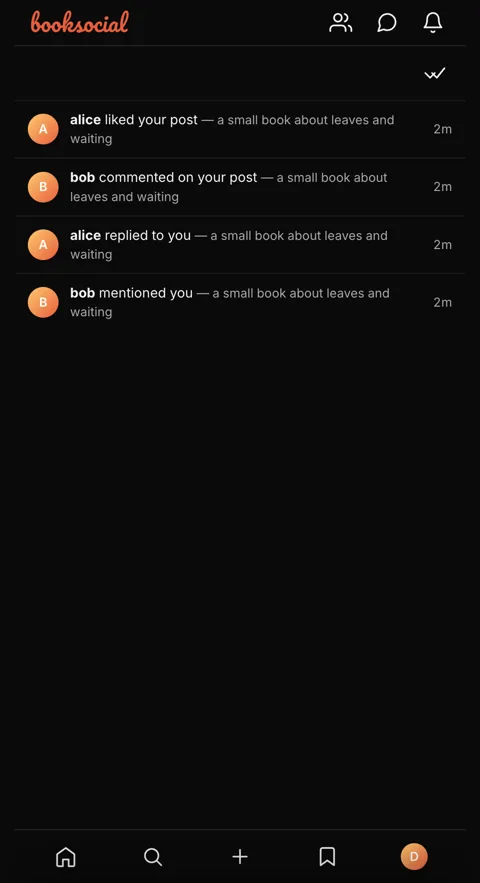
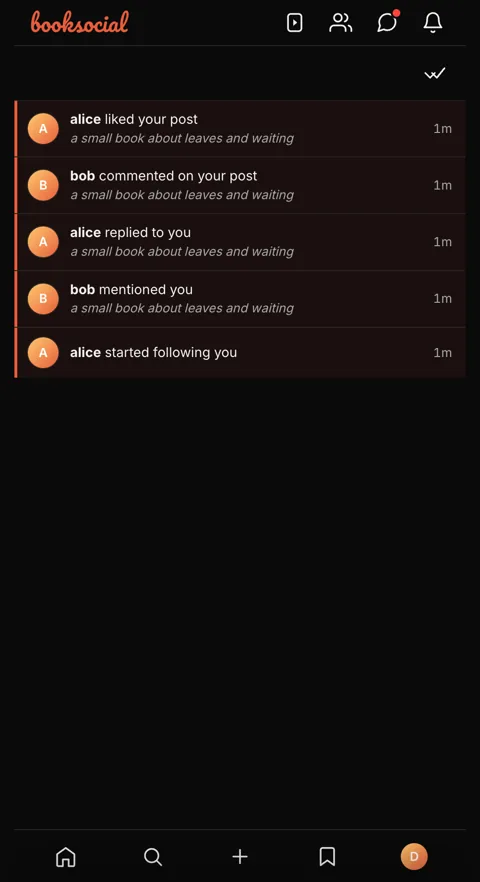
design: polish the utility screens to match the content ones
The list/utility screens were bare; bring them up to the app's standard.

- search: group results (People / Books / In the text); full-text hits
  now render as serif passage quotes with an accent rule and book source,
  instead of a flat log of @user rows
- notifications: two-line hierarchy (actor + action, book in italic) and a
  real unread state (terracotta rule + tint)
- settings: section headers, a proper toggle switch (was a raw checkbox),
  tidier rows and log-out
- shared: row hover, avatar hairline ring, friendlier empty states
- refresh the search/notifications/settings gallery screenshots

diff --git a/templates/settings.html b/templates/settings.html
@@ -1,30 +1,32 @@
 {% extends layout %}
 {% block content %}
 <form method="post" action="{{ url_for('settings') }}" enctype="multipart/form-data" id="sf">
+  <div class="res-h">Profile</div>
   <label class="row tap" style="cursor:pointer">
-    <input type="file" name="avatar" accept="image/*" hidden onchange="this.parentElement.querySelector('.upico').textContent=this.files[0]?.name||''">
+    <input type="file" name="avatar" accept="image/*" hidden onchange="this.parentElement.querySelector('.upico').textContent=this.files[0]?.name||'Tap to change'">
     <span class="avatar" aria-hidden="true">{% if g.user['avatar'] %}<img src="{{ g.user['avatar'] }}" alt="">{% else %}{{ (g.user['display_name'] or g.user['username'])[0]|upper }}{% endif %}</span>
-    <span class="grow">Avatar <span class="m upico"></span></span>
+    <span class="grow"><b>Photo</b><div class="m upico">Tap to change</div></span>
     <span class="btn" aria-hidden="true">{% include "icons/upload.svg" %}</span>
   </label>
   <label class="row col">
     <span class="m">Display name</span>
-    <input class="input" name="display_name" value="{{ g.user['display_name'] or '' }}" maxlength="60">
+    <input class="input" name="display_name" value="{{ g.user['display_name'] or '' }}" maxlength="60" placeholder="{{ g.user['username'] }}">
   </label>
   <label class="row col">
     <span class="m">Bio</span>
-    <textarea class="input" name="bio" rows="3" maxlength="200">{{ g.user['bio'] or '' }}</textarea>
+    <textarea class="input" name="bio" rows="3" maxlength="200" placeholder="A line about what you read.">{{ g.user['bio'] or '' }}</textarea>
   </label>
+  <div class="res-h">Privacy</div>
   <label class="row tap">
-    <input type="checkbox" name="private" {% if g.user['private'] %}checked{% endif %}>
-    <span class="grow">Private account</span>
-    <span class="m">Only followers see your posts</span>
+    <span class="grow"><b>Private account</b><div class="m">Only followers can see your posts</div></span>
+    <input type="checkbox" name="private" class="switch" {% if g.user['private'] %}checked{% endif %}>
   </label>
 </form>
+<div class="res-h">Account</div>
 <form method="post" action="{{ url_for('logout') }}" id="lf" style="margin:0"></form>
-<button class="row tap" type="submit" form="lf" style="width:100%;border:0;background:none;font:inherit;color:var(--red);text-align:left;cursor:pointer;display:flex;align-items:center;gap:12px" aria-label="Log out">{% include "icons/logout.svg" %}<span class="grow">Log out</span></button>
+<button class="row tap danger" type="submit" form="lf" aria-label="Log out">{% include "icons/logout.svg" %}<span class="grow">Log out</span></button>
 <div class="bar foot">
   <span class="grow"></span>
-  <button class="btn primary" type="submit" form="sf" aria-label="Save">{% include "icons/check.svg" %}</button>
+  <button class="btn primary" type="submit" form="sf" aria-label="Save changes">{% include "icons/check.svg" %}</button>
 </div>
 {% endblock %}

diff --git a/templates/search_results.html b/templates/search_results.html
@@ -11,21 +11,27 @@
   <span class="gen-text" aria-hidden="true"><span class="gt">{{ b['caption']|title_part }}</span>{% if b['caption']|author_part %}<span class="ga">{{ b['caption']|author_part }}</span>{% endif %}</span>{% endif %}
 </a>
 {% endfor %}</div>{% endif %}
-{% elif not (results['books'] or results['lines'] or results['users']) %}<p class="empty">No matches.</p>
+{% elif not (results['books'] or results['lines'] or results['users']) %}<p class="empty">No matches for “{{ q }}”.<br>Try a name, a title, or a phrase from a book.</p>
 {% else %}
+{% if results['users'] %}<div class="res-h">People</div>
 {% for u in results['users'] %}
-<a class="row" href="{{ url_for('profile', username=u['username']) }}">
-  <span class="avatar">{{ u['username'][0]|upper }}</span><b>{{ u['username'] }}</b>{% if u['display_name'] %}<span class="m"> · {{ u['display_name'] }}</span>{% endif %}
+<a class="row tap" href="{{ url_for('profile', username=u['username']) }}">
+  <span class="avatar">{% if u['avatar'] %}<img src="{{ u['avatar'] }}" alt="">{% else %}{{ u['username'][0]|upper }}{% endif %}</span>
+  <span class="grow"><b>{{ u['display_name'] or u['username'] }}</b><div class="m">@{{ u['username'] }}</div></span>
 </a>
-{% endfor %}
+{% endfor %}{% endif %}
+{% if results['books'] %}<div class="res-h">Books</div>
 {% for b in results['books'] %}
-<a class="row" href="{{ url_for('book_read', bid=b['id']) }}">
-  <span class="m">@{{ b['owner_username'] }}</span><span class="grow">{{ b['caption'] or 'Untitled' }}</span>
+<a class="row tap" href="{{ url_for('book_read', bid=b['id']) }}">
+  <span class="grow"><b>{{ b['caption']|title_part or 'Untitled' }}</b>{% if b['caption']|author_part %}<div class="m">{{ b['caption']|author_part }}</div>{% endif %}</span>
+  <span class="m">@{{ b['owner_username'] }}</span>
 </a>
-{% endfor %}
+{% endfor %}{% endif %}
+{% if results['lines'] %}<div class="res-h">In the text</div>
 {% for l in results['lines'] %}
-<a class="row" href="{{ url_for('book_read', bid=l['book_id']) }}#p-{{ l['idx'] }}">
-  <span class="m">@{{ l['username'] }}</span><span class="grow">{{ l['s']|safe }}</span>
+<a class="qhit" href="{{ url_for('book_read', bid=l['book_id']) }}#p-{{ l['idx'] }}">
+  <p class="qhit-text">{{ l['s']|safe }}</p>
+  <span class="qhit-src">{% if l['caption'] %}{{ l['caption']|title_part }}{% else %}@{{ l['username'] }}{% endif %} ›</span>
 </a>
-{% endfor %}
+{% endfor %}{% endif %}
 {% endif %}

diff --git a/templates/notifications.html b/templates/notifications.html
@@ -2,14 +2,13 @@
 {% block content %}
 <div class="list">
 {% if items %}<form method="post" action="{{ url_for('notifications_read_all') }}" style="display:flex;justify-content:flex-end;padding:6px 10px;border-bottom:1px solid var(--rule);margin:0"><button class="btn" type="submit" aria-label="Mark all as read">{% include "icons/check-double.svg" %}</button></form>{% endif %}
-{% if not items %}<div class="empty">No notifications.</div>
+{% if not items %}<div class="empty">Nothing yet.<br>Likes, comments, and mentions will land here.</div>
 {% else %}{% for n in items %}
-<a class="row tap" href="{{ url_for('profile', username=n['actor_name']) if n['kind']=='follow' else url_for('book_read', bid=n['book_id']) if n['book_id'] else url_for('home') }}">
+<a class="row tap notif{{ ' unread' if not n['read_at'] }}" href="{{ url_for('profile', username=n['actor_name']) if n['kind']=='follow' else url_for('book_read', bid=n['book_id']) if n['book_id'] else url_for('home') }}">
   <span class="avatar">{% if n['actor_avatar'] %}<img src="{{ n['actor_avatar'] }}" alt="">{% else %}{{ n['actor_name'][0]|upper }}{% endif %}</span>
   <span class="grow">
-    <b>{{ n['actor_name'] }}</b>
-    {% if n['kind']=='like' %}liked your post{% elif n['kind']=='comment' %}commented on your post{% elif n['kind']=='reply' %}replied to you{% elif n['kind']=='mention' %}mentioned you{% elif n['kind']=='follow' %}started following you{% endif %}
-    {% if n['book_caption'] %}<span class="m"> — {{ n['book_caption']|title_part }}</span>{% endif %}
+    <span class="notif-line"><b>{{ n['actor_name'] }}</b> {% if n['kind']=='like' %}liked your post{% elif n['kind']=='comment' %}commented on your post{% elif n['kind']=='reply' %}replied to you{% elif n['kind']=='mention' %}mentioned you{% elif n['kind']=='follow' %}started following you{% endif %}</span>
+    {% if n['book_caption'] %}<span class="notif-book">{{ n['book_caption']|title_part }}</span>{% endif %}
   </span>
   <span class="m">{{ n['created_at']|ago }}</span>
 </a>

diff --git a/static/style.css b/static/style.css
@@ -253,3 +253,31 @@ body:has(.bar.foot) .bar.tab{display:none}
 .reel-actions .grow{flex:1}
 .reel-actions .btn{color:#fff}
 .reel-actions .btn .count{color:#fff;font-size:13px;margin-left:4px}
+
+/* ── utility-screen polish ── */
+.row.tap{transition:background 120ms}
+.row.tap:hover{background:rgba(255,255,255,.035)}
+.list .row .avatar,#sres .row .avatar{box-shadow:0 0 0 1px var(--rule)}
+
+.res-h{font-size:11px;font-weight:600;letter-spacing:.12em;text-transform:uppercase;color:var(--fg-tertiary);padding:20px 16px 8px}
+#sres>.res-h:first-child{padding-top:12px}
+
+.qhit{display:block;padding:13px 16px}
+.qhit+.qhit{border-top:1px solid var(--rule)}
+.qhit-text{font-family:"Source Serif 4",Georgia,serif;font-size:15.5px;line-height:1.5;color:var(--fg);margin:0 0 7px;padding-left:13px;border-left:2px solid var(--accent)}
+.qhit-text mark{background:rgba(232,93,60,.28);color:#fff;padding:0 2px;border-radius:2px}
+.qhit-src{font-size:12px;color:var(--fg-muted);padding-left:13px}
+.qhit:hover .qhit-src{color:var(--accent)}
+
+.notif .grow{display:flex;flex-direction:column;gap:1px}
+.notif-line{line-height:1.35}
+.notif-book{font-size:13px;color:var(--fg-muted);font-style:italic}
+.row.unread{background:rgba(232,93,60,.07);box-shadow:inset 3px 0 0 var(--accent)}
+
+.switch{appearance:none;-webkit-appearance:none;width:46px;height:28px;border-radius:999px;background:var(--bg-overlay);position:relative;cursor:pointer;flex:0 0 auto;transition:background 160ms;margin:0}
+.switch::after{content:"";position:absolute;top:3px;left:3px;width:22px;height:22px;border-radius:50%;background:#fff;transition:transform 160ms var(--ease)}
+.switch:checked{background:var(--accent)}
+.switch:checked::after{transform:translateX(18px)}
+
+.row.danger{width:100%;color:var(--red);gap:12px;text-align:left}
+.row.danger svg{stroke:var(--red)}

diff --git a/app.py b/app.py
@@ -856,7 +856,7 @@ def search():
             f"SELECT {FEED} FROM books b JOIN users u ON u.id=b.owner_id WHERE b.status='published' AND b.visibility='public' AND b.repost_of IS NULL AND b.caption LIKE ? ORDER BY b.updated_at DESC LIMIT 12",
             (f"%{q}%",)).fetchall(), g.user)
         lines = db().execute(
-            "SELECT p.book_id, p.idx, b.owner_id, u.username, snippet(paragraphs_fts, 0, '<mark>', '</mark>', '…', 10) AS s FROM paragraphs_fts JOIN paragraphs p ON p.id=paragraphs_fts.paragraph_id JOIN books b ON b.id=p.book_id JOIN users u ON u.id=b.owner_id WHERE paragraphs_fts MATCH ? AND b.status='published' AND b.visibility='public' LIMIT 60",
+            "SELECT p.book_id, p.idx, b.owner_id, b.caption, u.username, snippet(paragraphs_fts, 0, '<mark>', '</mark>', '…', 12) AS s FROM paragraphs_fts JOIN paragraphs p ON p.id=paragraphs_fts.paragraph_id JOIN books b ON b.id=p.book_id JOIN users u ON u.id=b.owner_id WHERE paragraphs_fts MATCH ? AND b.status='published' AND b.visibility='public' LIMIT 60",
             (fq,)).fetchall()
         ctx = _vis_ctx(g.user, {r["owner_id"] for r in lines})
         results["lines"] = [r for r in lines if r["owner_id"] not in ctx["blocked"]
